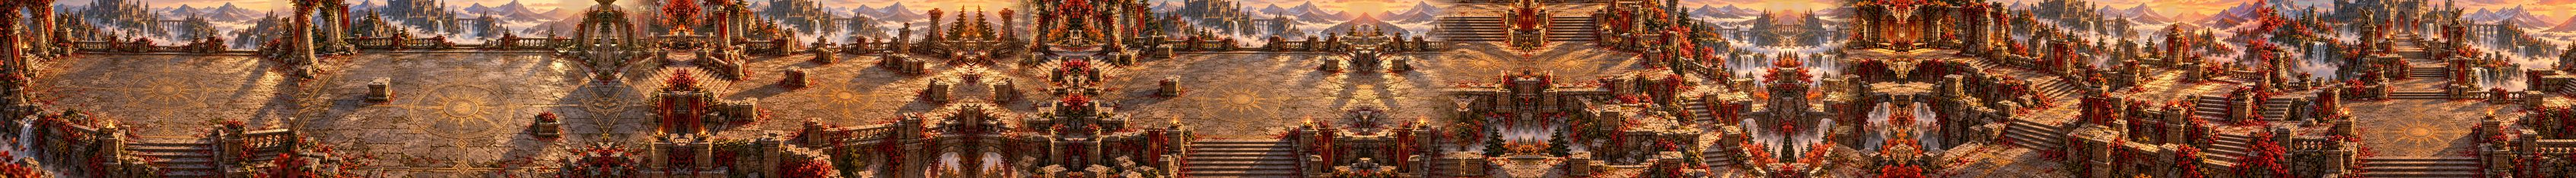
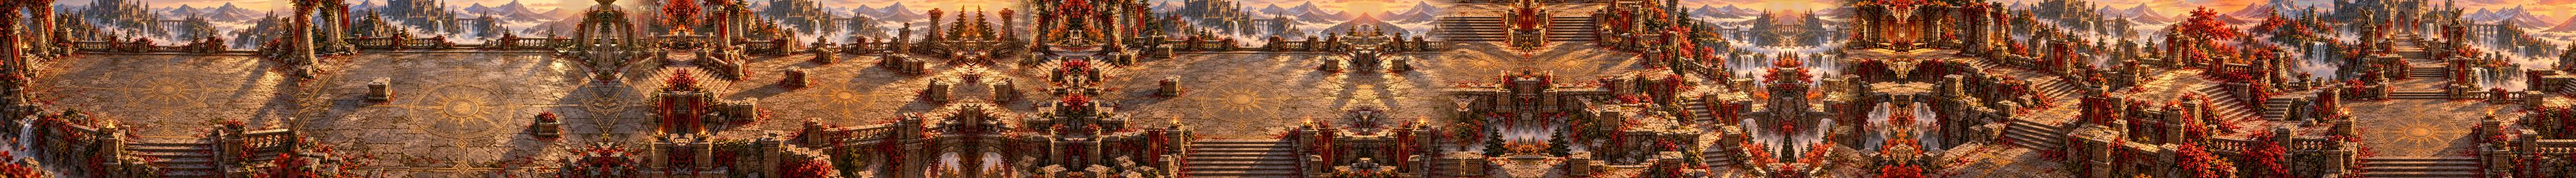
Open world: GPT's second ruins→temple join (wide stairs down to the temple road, no sun) with its floor; GPT joins now colour-matched to the maps and faded in over a wide band (no seam in the sky)
Claude-Session: https://claude.ai/code/session_01AxppULVYpyTE4fFMuEDiRu

Changed region(s): [[0.8373, 0.0, 0.8993, 1.0]]

diff --git a/tools/world/strip.py b/tools/world/strip.py
@@ -93,19 +93,22 @@ def register(gpt, req, M):
 
 
 def merge(req, fill, M, poisson):
-  """The painted gap into the canvas: Poisson (GPT's detail, the maps' own colours along the edges), then feathered."""
-  grow = cv2.dilate(M, np.ones((1, 2 * 44 + 1), np.uint8))
-  dst = req * (1 - M[..., None]) + fill * M[..., None]
-  out = dst
-  if poisson:
-    P = 24
-    pad = lambda im: cv2.copyMakeBorder(np.clip(im, 0, 255).astype(np.uint8), P, P, P, P, cv2.BORDER_REFLECT)
-    mk = cv2.copyMakeBorder((grow * 255).astype(np.uint8), P, P, P, P, cv2.BORDER_CONSTANT, value=0)
-    x, y, w, h = cv2.boundingRect(mk)
-    out = cv2.seamlessClone(pad(fill), pad(dst), mk, (x + w // 2, y + h // 2), cv2.NORMAL_CLONE)[P:-P, P:-P].astype(np.float32)
+  """The painted gap into the canvas. GPT paints the whole picture again (the kept parts slightly re-coloured), so its
+  colours are first pulled onto the maps' own (a smooth offset measured on the kept parts, carried across the gap),
+  then it fades into the maps over a wide band (no seam line, no colour step); the stand-in uses a short feather."""
+  if not poisson:
+    d = cv2.distanceTransform((M < 0.5).astype(np.uint8), cv2.DIST_L2, 5)
+    t = np.clip(1 - d / 44, 0, 1); a = (t * t * (3 - 2 * t))[..., None]
+    return req * (1 - a) + fill * a
+  K = (1 - M).astype(np.float32)
+  K = cv2.erode(K, np.ones((1, 9), np.uint8))                      # away from the magenta edge
+  diff = (req - fill) * K[..., None]
+  sig = 110
+  off = cv2.GaussianBlur(diff, (0, 0), sig) / np.maximum(cv2.GaussianBlur(K, (0, 0), sig), 1e-3)[..., None]
+  fixed = fill + off
   d = cv2.distanceTransform((M < 0.5).astype(np.uint8), cv2.DIST_L2, 5)   # px from the painted area
-  t = np.clip(1 - d / 44, 0, 1); a = (t * t * (3 - 2 * t))[..., None]       # 1 inside it, easing to 0 over 44 px
-  return req * (1 - a) + out * a
+  t = np.clip(1 - d / 110, 0, 1); a = (t * t * (3 - 2 * t))[..., None]      # 1 inside it, easing to 0 over 110 px
+  return req * (1 - a) + fixed * a
 
 
 for a, b in zip(ROW, ROW[1:]):
